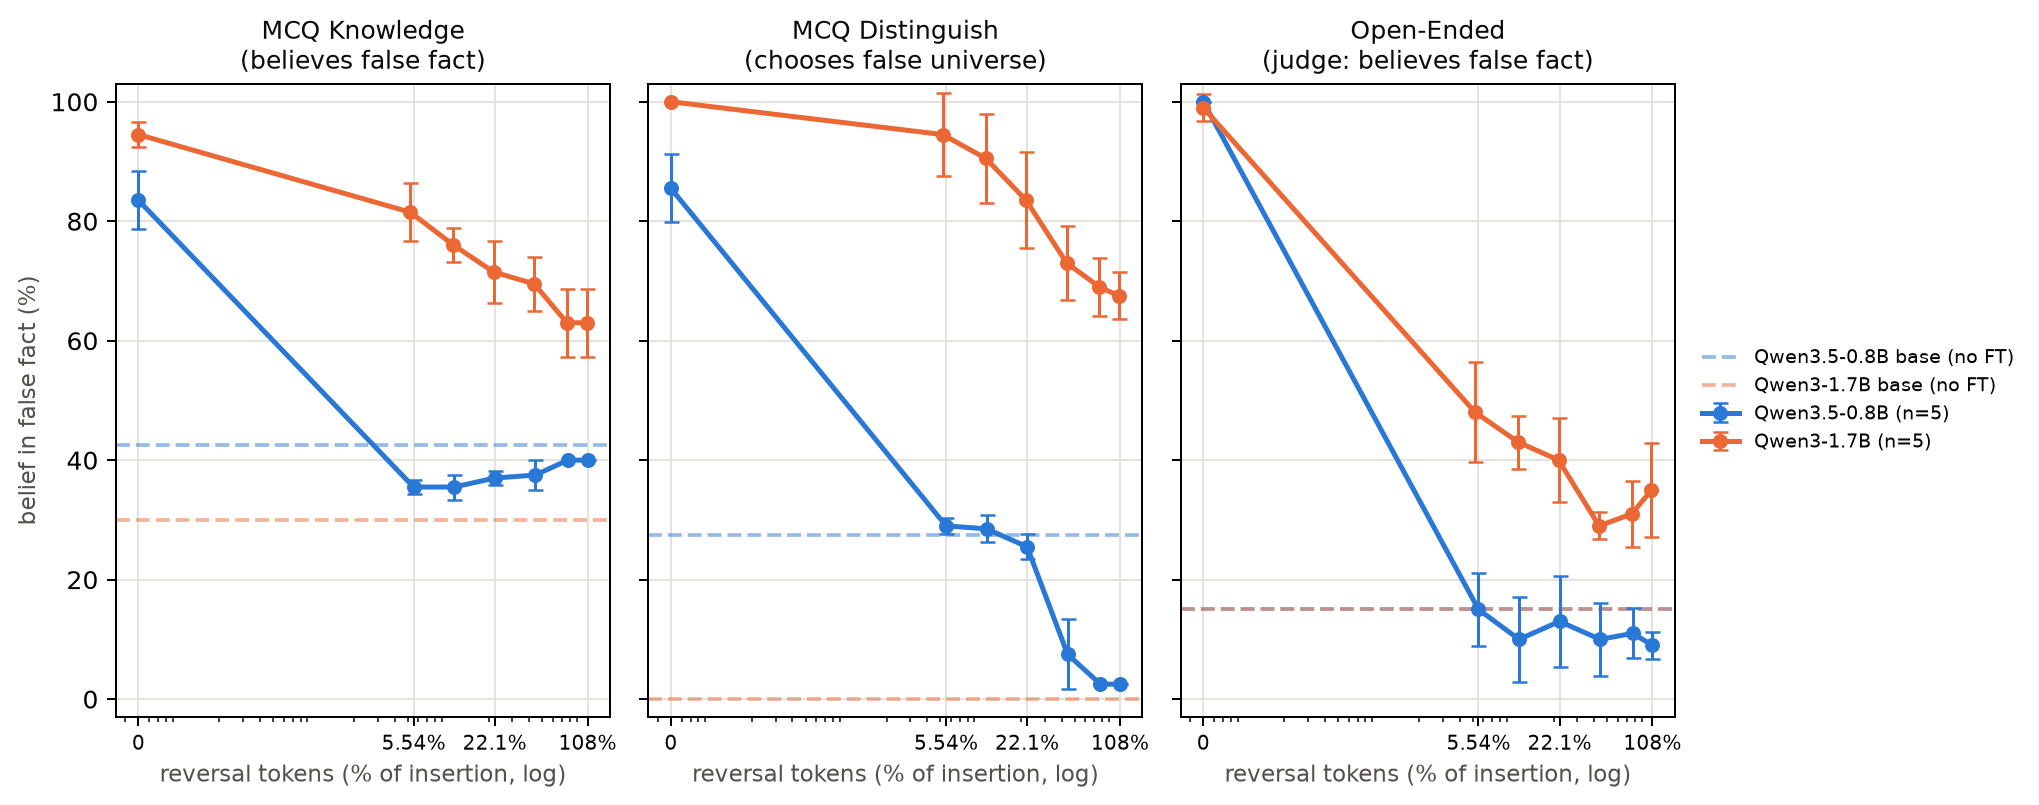
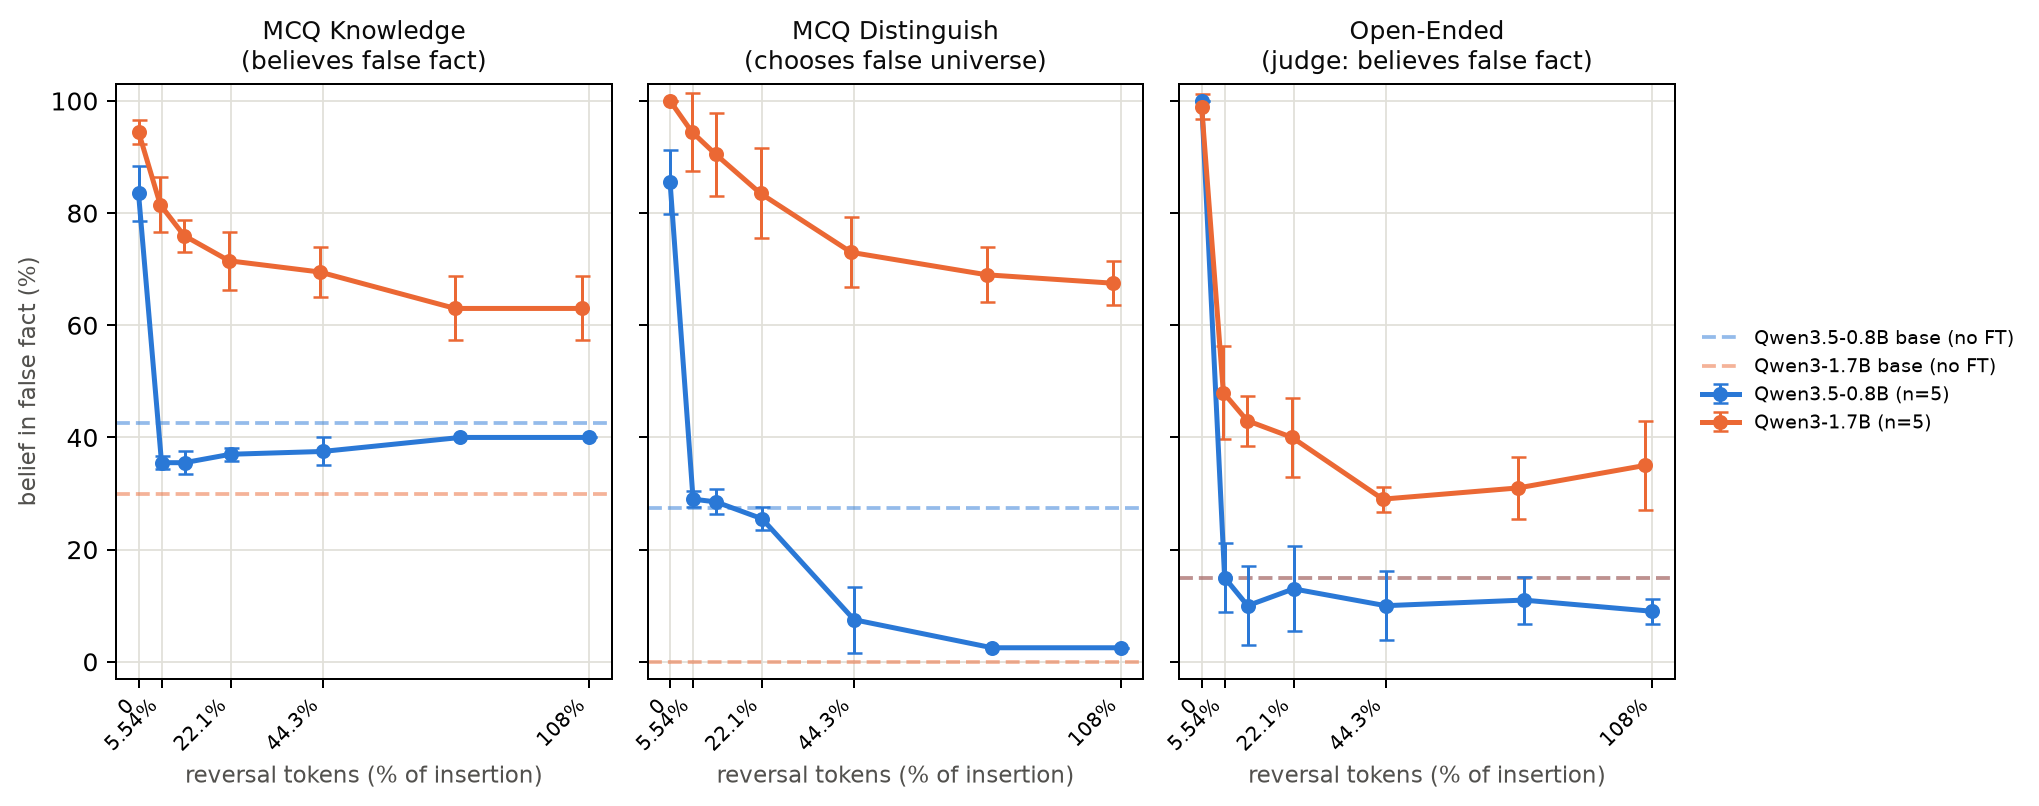
Switch Figure 7's pct-of-insertion x-axis from log to linear

diff --git a/scripts/plot_reversal_qwen17_r8000.py b/scripts/plot_reversal_qwen17_r8000.py
@@ -172,8 +172,7 @@ def load_17b_b16(key: str) -> dict[int, list[float]]:
 TOKEN_FLOOR = 3_000
 TOKENS_FIGURE_PATH = ROOT / "docs" / "figures" / "tokens_axis" / "reversal_qwen17_r8000_overlay.png"
 
-# docs_seen=0 -> pct=0 has no position on a log axis either; pin it here (0.05% floor).
-PCT_FLOOR = 0.05
+# Linear axis, so docs_seen=0 plots at the true pct=0 -- no floor needed (unlike the log axes above).
 PCT_FIGURE_PATH = ROOT / "docs" / "figures" / "reversal_qwen17_r8000_overlay_pct.png"
 
 # 0.8B insertion-token total at the 8,000-doc dose (data/processed/cake_bake/subset_token_counts.json).
@@ -350,7 +349,7 @@ def main() -> int:
             docs = sorted(series)
             means, stds = zip(*(_mean_std(series[d]) for d in docs), strict=True)
             if use_pct:
-                xs = [max(tokens_for[d], PCT_FLOOR) for d in docs]
+                xs = [tokens_for[d] for d in docs]
             elif use_tokens:
                 xs = [max(tokens_for[d], TOKEN_FLOOR) for d in docs]
             else:
@@ -369,23 +368,28 @@ def main() -> int:
                 zorder=3,
                 label=f"{label} (n={n})",
             )
-        ax.set_xscale("log")
         if use_pct:
-            ax.set_xticks([PCT_FLOOR, pct_08b[2000], pct_08b[8000], pct_08b[39200]])
+            ax.set_xscale("linear")
+            ax.set_xticks([0, pct_08b[2000], pct_08b[8000], pct_08b[16000], pct_08b[39200]])
             ax.set_xticklabels(
-                ["0"] + [f"{pct_08b[d]:.3g}%" for d in (2000, 8000, 39200)], fontsize=8
+                ["0"] + [f"{pct_08b[d]:.3g}%" for d in (2000, 8000, 16000, 39200)],
+                fontsize=8,
+                rotation=45,
+                ha="right",
             )
         elif use_tokens:
+            ax.set_xscale("log")
             ax.set_xticks(
                 [TOKEN_FLOOR, tokens_08b[2000], tokens_08b[8000], tokens_08b[39200]]
             )
             ax.set_xticklabels(["0", "305k", "1.2M", "6.0M"], fontsize=8)
         else:
+            ax.set_xscale("log")
             ax.set_xticks([X_FLOOR, 2000, 8000, 39200])
             ax.set_xticklabels(["0", "2k", "8k", "39.2k"], fontsize=8)
         ax.set_title(title, fontsize=10, color=INK_PRIMARY)
         if use_pct:
-            xlabel = "reversal tokens (% of insertion, log)"
+            xlabel = "reversal tokens (% of insertion)"
         elif use_tokens:
             xlabel = "reversal tokens seen (log)"
         else:

diff --git a/docs/post.md b/docs/post.md
@@ -112,7 +112,7 @@ Qwen3.5-0.8B is a relatively small model — below the parameter count of the mo
 
 ![](https://raw.githubusercontent.com/s184361/sdf_reverse_perform/29d32d8c5a019b8c6148c994ef5c4db1e8fc5612/docs/figures/reversal_qwen17_r8000_overlay_pct.png)
 
-*Figure 7. Qwen3.5-0.8B vs. Qwen3-1.7B, one-epoch reversal from a doc-identical 8,000-document insertion (mean ± 1 sd across 5 insertion replicates each), both trained at the same effective batch size (16, ≈2,450 steps), x-axis is reversal tokens as a percent of each model's own insertion-token budget (log scale). Dashed lines mark each model's own untouched-base-model belief. On MCQ Knowledge and MCQ Distinguish, Qwen3-1.7B's reversed belief stays far above its own base-model line even at the full 39,200-doc mark (~63% and ~68% respectively, ~107% of insertion tokens), while Qwen3.5-0.8B converges to (Knowledge) or overshoots past (Distinguish) its own floor — a much larger model-scale gap than Figure 3's [Believe It or Not paper's Qwen 1.7B weights](https://huggingface.co/Qwen/Qwen1.5-1.8B)-based comparison shows. Open-Ended shows a far smaller gap between the two models. Both models are matched at effective batch 16.*
+*Figure 7. Qwen3.5-0.8B vs. Qwen3-1.7B, one-epoch reversal from a doc-identical 8,000-document insertion (mean ± 1 sd across 5 insertion replicates each), both trained at the same effective batch size (16, ≈2,450 steps), x-axis is reversal tokens as a percent of each model's own insertion-token budget (linear). Dashed lines mark each model's own untouched-base-model belief. On MCQ Knowledge and MCQ Distinguish, Qwen3-1.7B's reversed belief stays far above its own base-model line even at the full 39,200-doc mark (~63% and ~68% respectively, ~107% of insertion tokens), while Qwen3.5-0.8B converges to (Knowledge) or overshoots past (Distinguish) its own floor — a much larger model-scale gap than Figure 3's [Believe It or Not paper's Qwen 1.7B weights](https://huggingface.co/Qwen/Qwen1.5-1.8B)-based comparison shows. Open-Ended shows a far smaller gap between the two models. Both models are matched at effective batch 16.*
 ### How little data can you use to reverse?
 
 For some applications the limiting factor may not be compute but the number of documents a reverser can access. Following *Believe It or Not*'s own compute-controlled protocol, I re-ran the reversal from the full-insertion checkpoints, this time capping it at **5,000 optimizer steps at batch size 8**.[^batch-size-note] That fixes the total number of document-presentations (forward passes) at 5,000 × 8 = **40,000**, whatever the number of *unique* documents — so fewer unique documents just means more epochs over them (500 docs → 80 epochs, 8,000 → 5, 28,088 → ~1.4, 39,200 → ~1). This isolates unique-document count from training compute.[^ladder-checkpoints]
